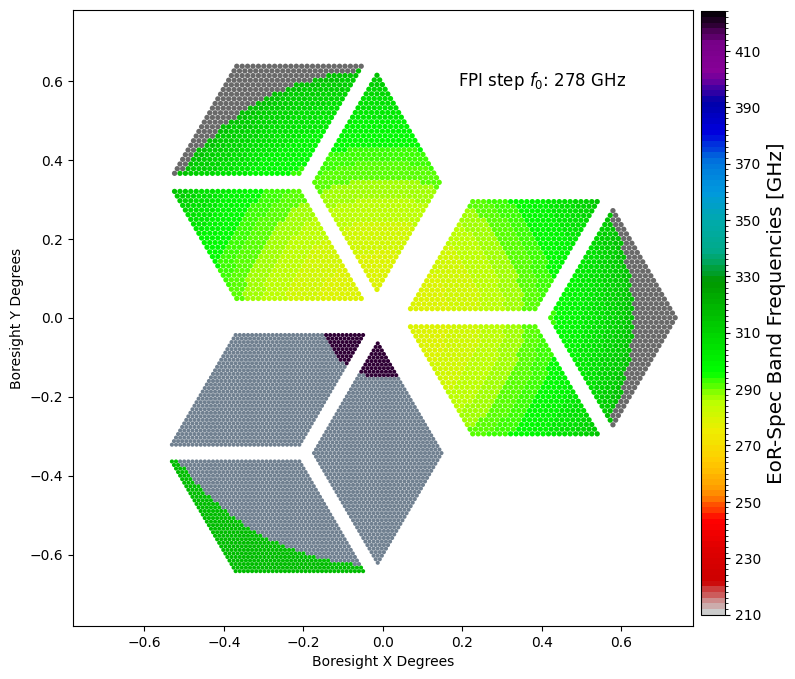
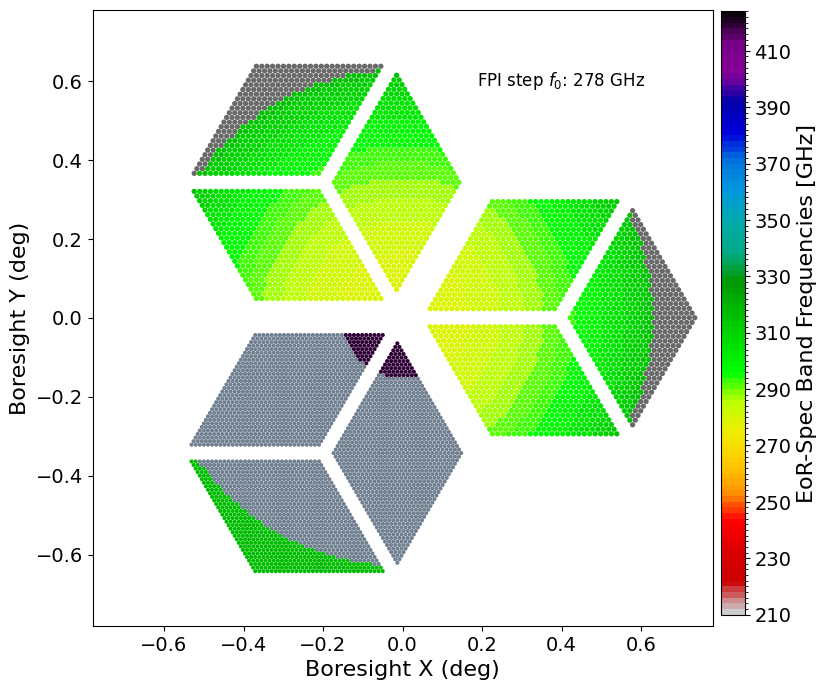
Plotting func updated, bigger .png labels

diff --git a/plotting_func.py b/plotting_func.py
@@ -385,27 +385,29 @@ def plot_eorspec_annuli(
 
     #Plotting frame details
     # plt.title("EoR-Spec projected Focal Plane Arrays", fontsize="x-large")
-    ax.set_xlabel("Boresight X Degrees", fontsize="medium")
-    ax.set_ylabel("Boresight Y Degrees", fontsize="medium")
+    ax.set_xlabel("Boresight X (deg)", fontsize=16)
+    ax.set_ylabel("Boresight Y (deg)", fontsize=16)
+    ax.tick_params(axis="both", which="major", labelsize=14)
     ax.set_xlim([-half_width, half_width])
     ax.set_ylim([-half_height, half_height])
-    
+
     # Create a new axis for the colorbar
     #[left, bottom, width, height] weights[0:1]
     cb_ax = fig.add_axes([0.91, 0.124, 0.03, 0.754])
-    
+
     # Mapping the norm values to the colorbar
     sm = plt.cm.ScalarMappable(cmap=cmap, norm=norm)
     sm.set_array([])  # Placeholder
 
     reduced_ticks = boundaries[::10]
-    
-    # Add the colorbar
-    cbar = plt.colorbar(sm, boundaries=boundaries, 
-                        ticks=reduced_ticks, 
-                        orientation='vertical', cax=cb_ax)
-    cbar.set_label('EoR-Spec Band Frequencies [GHz]', size="x-large")
 
+    # Add the colorbar
+    cbar = plt.colorbar(sm, boundaries=boundaries,
+                        ticks=reduced_ticks,
+                        orientation='vertical', cax=cb_ax)
+    cbar.set_label("EoR-Spec Band Frequencies [GHz]", fontsize=16)
+    cbar.ax.tick_params(labelsize=14)
+    
     if outfile is None:
         output_plt = plt.show();
         print()
